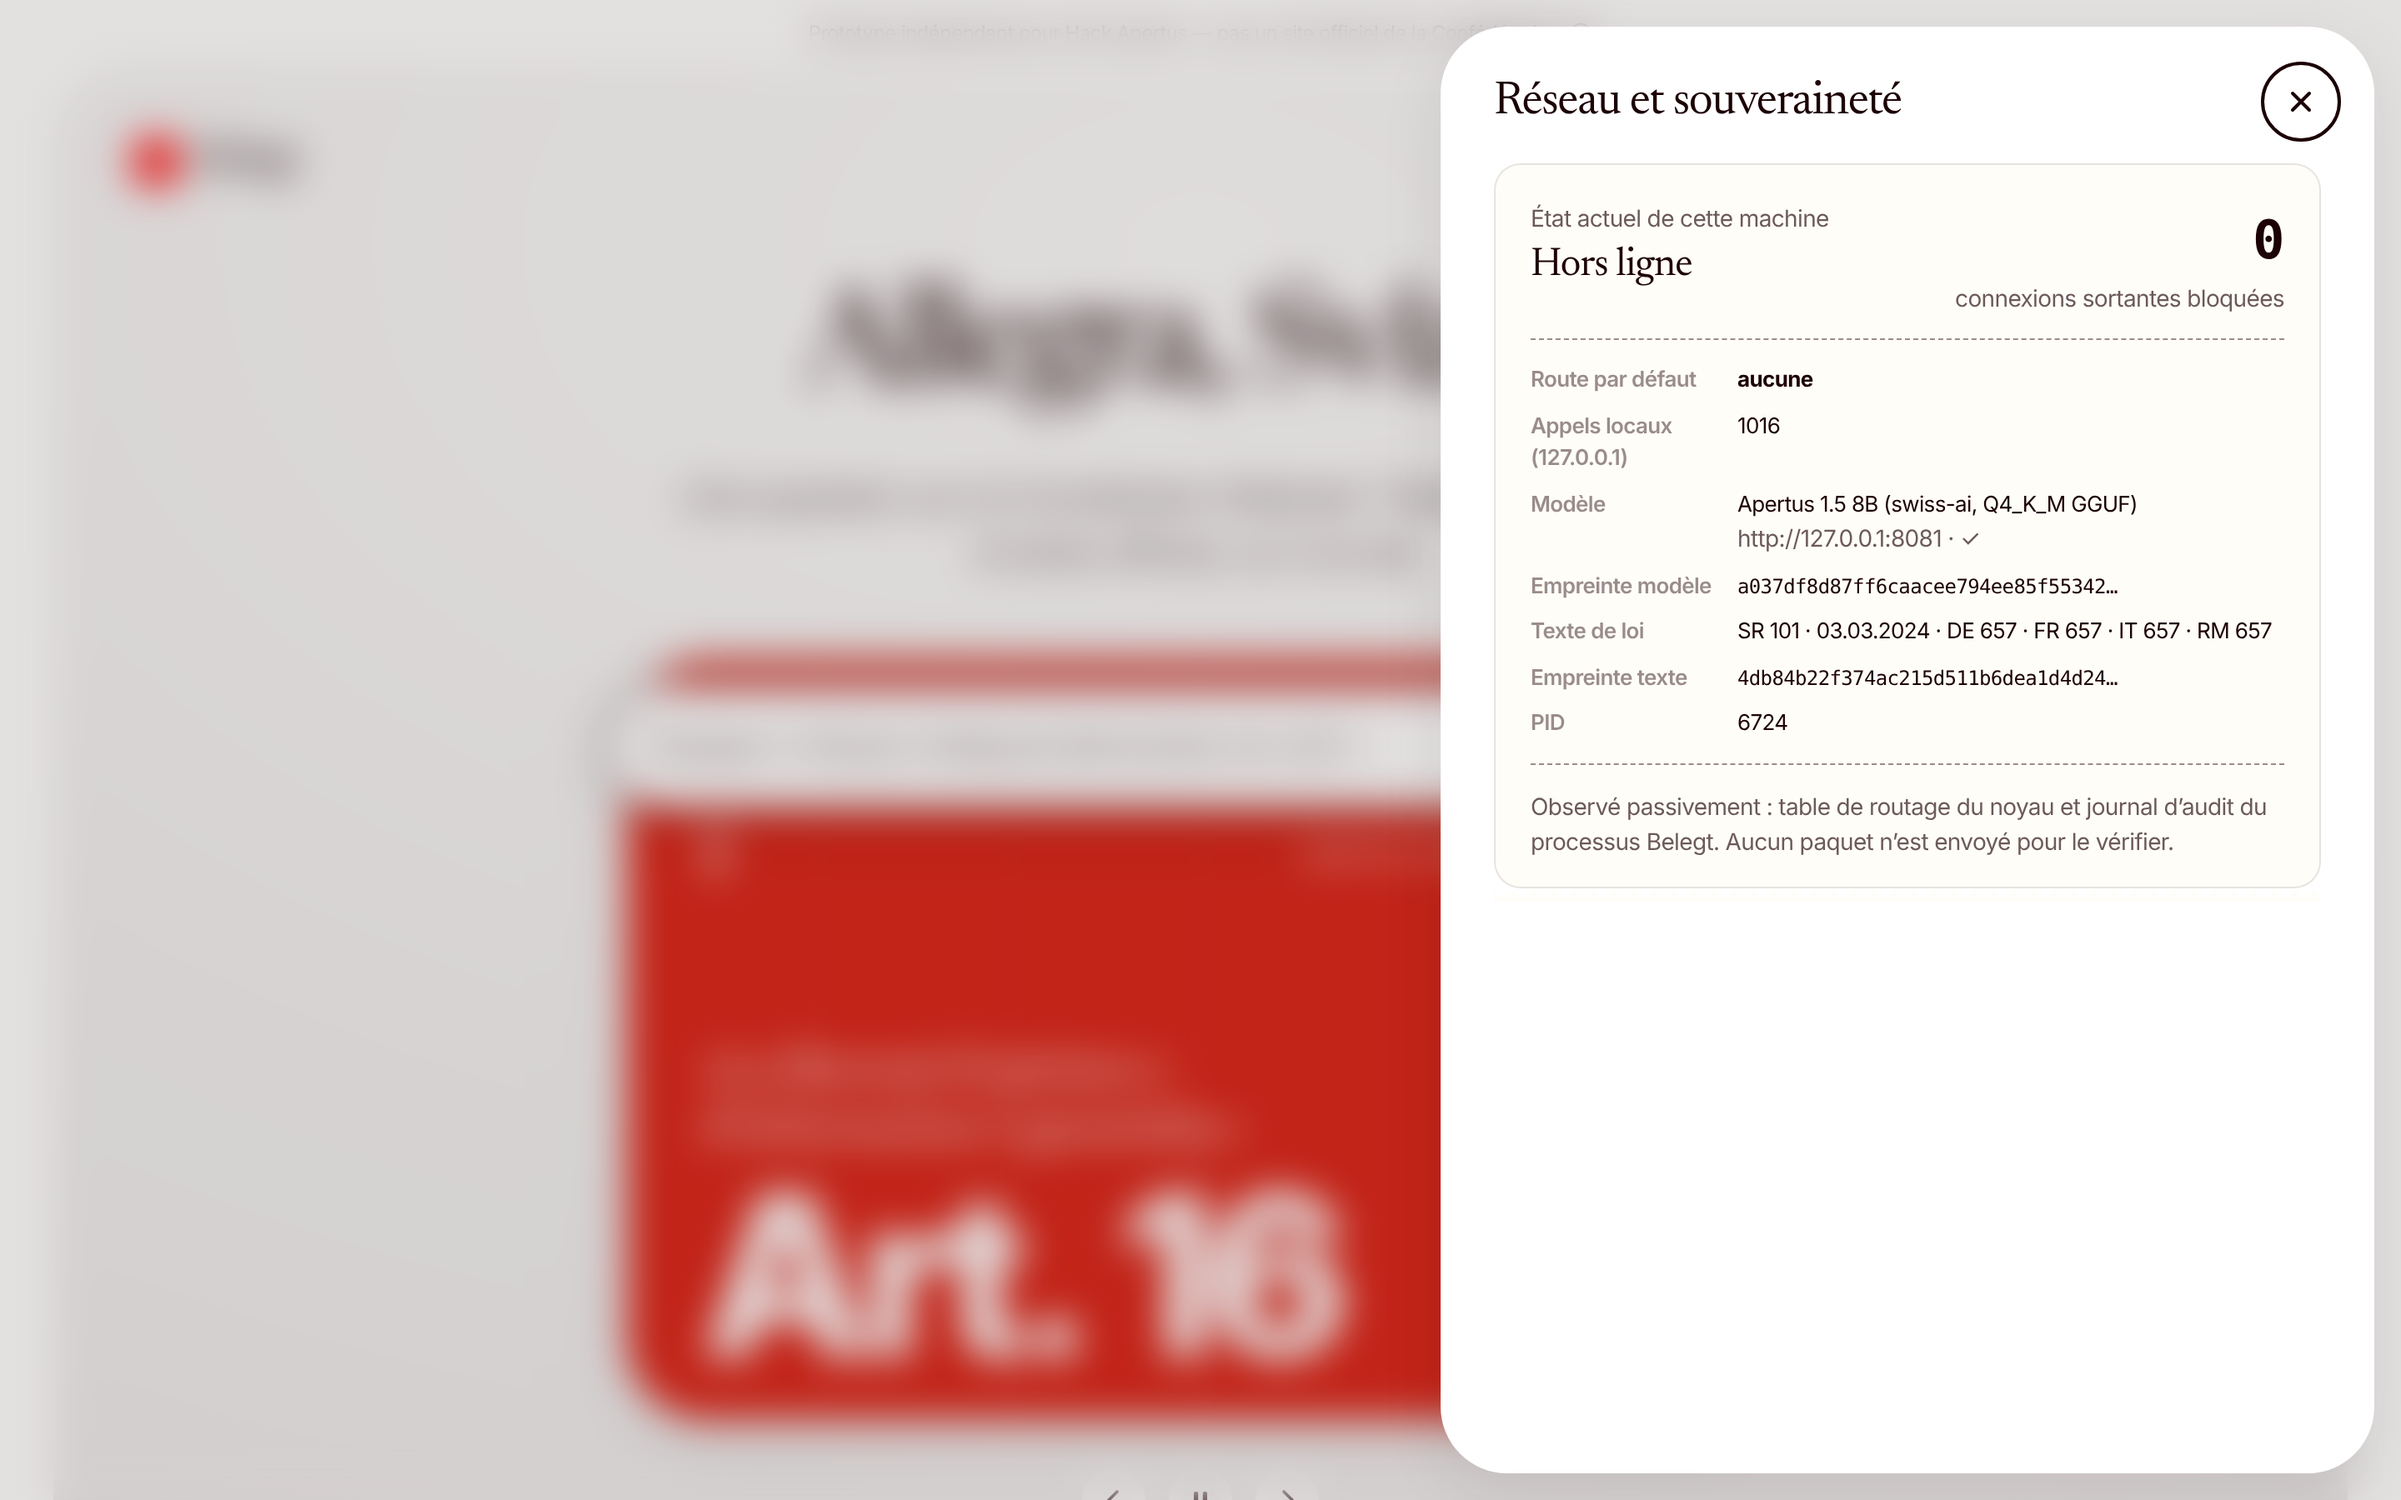
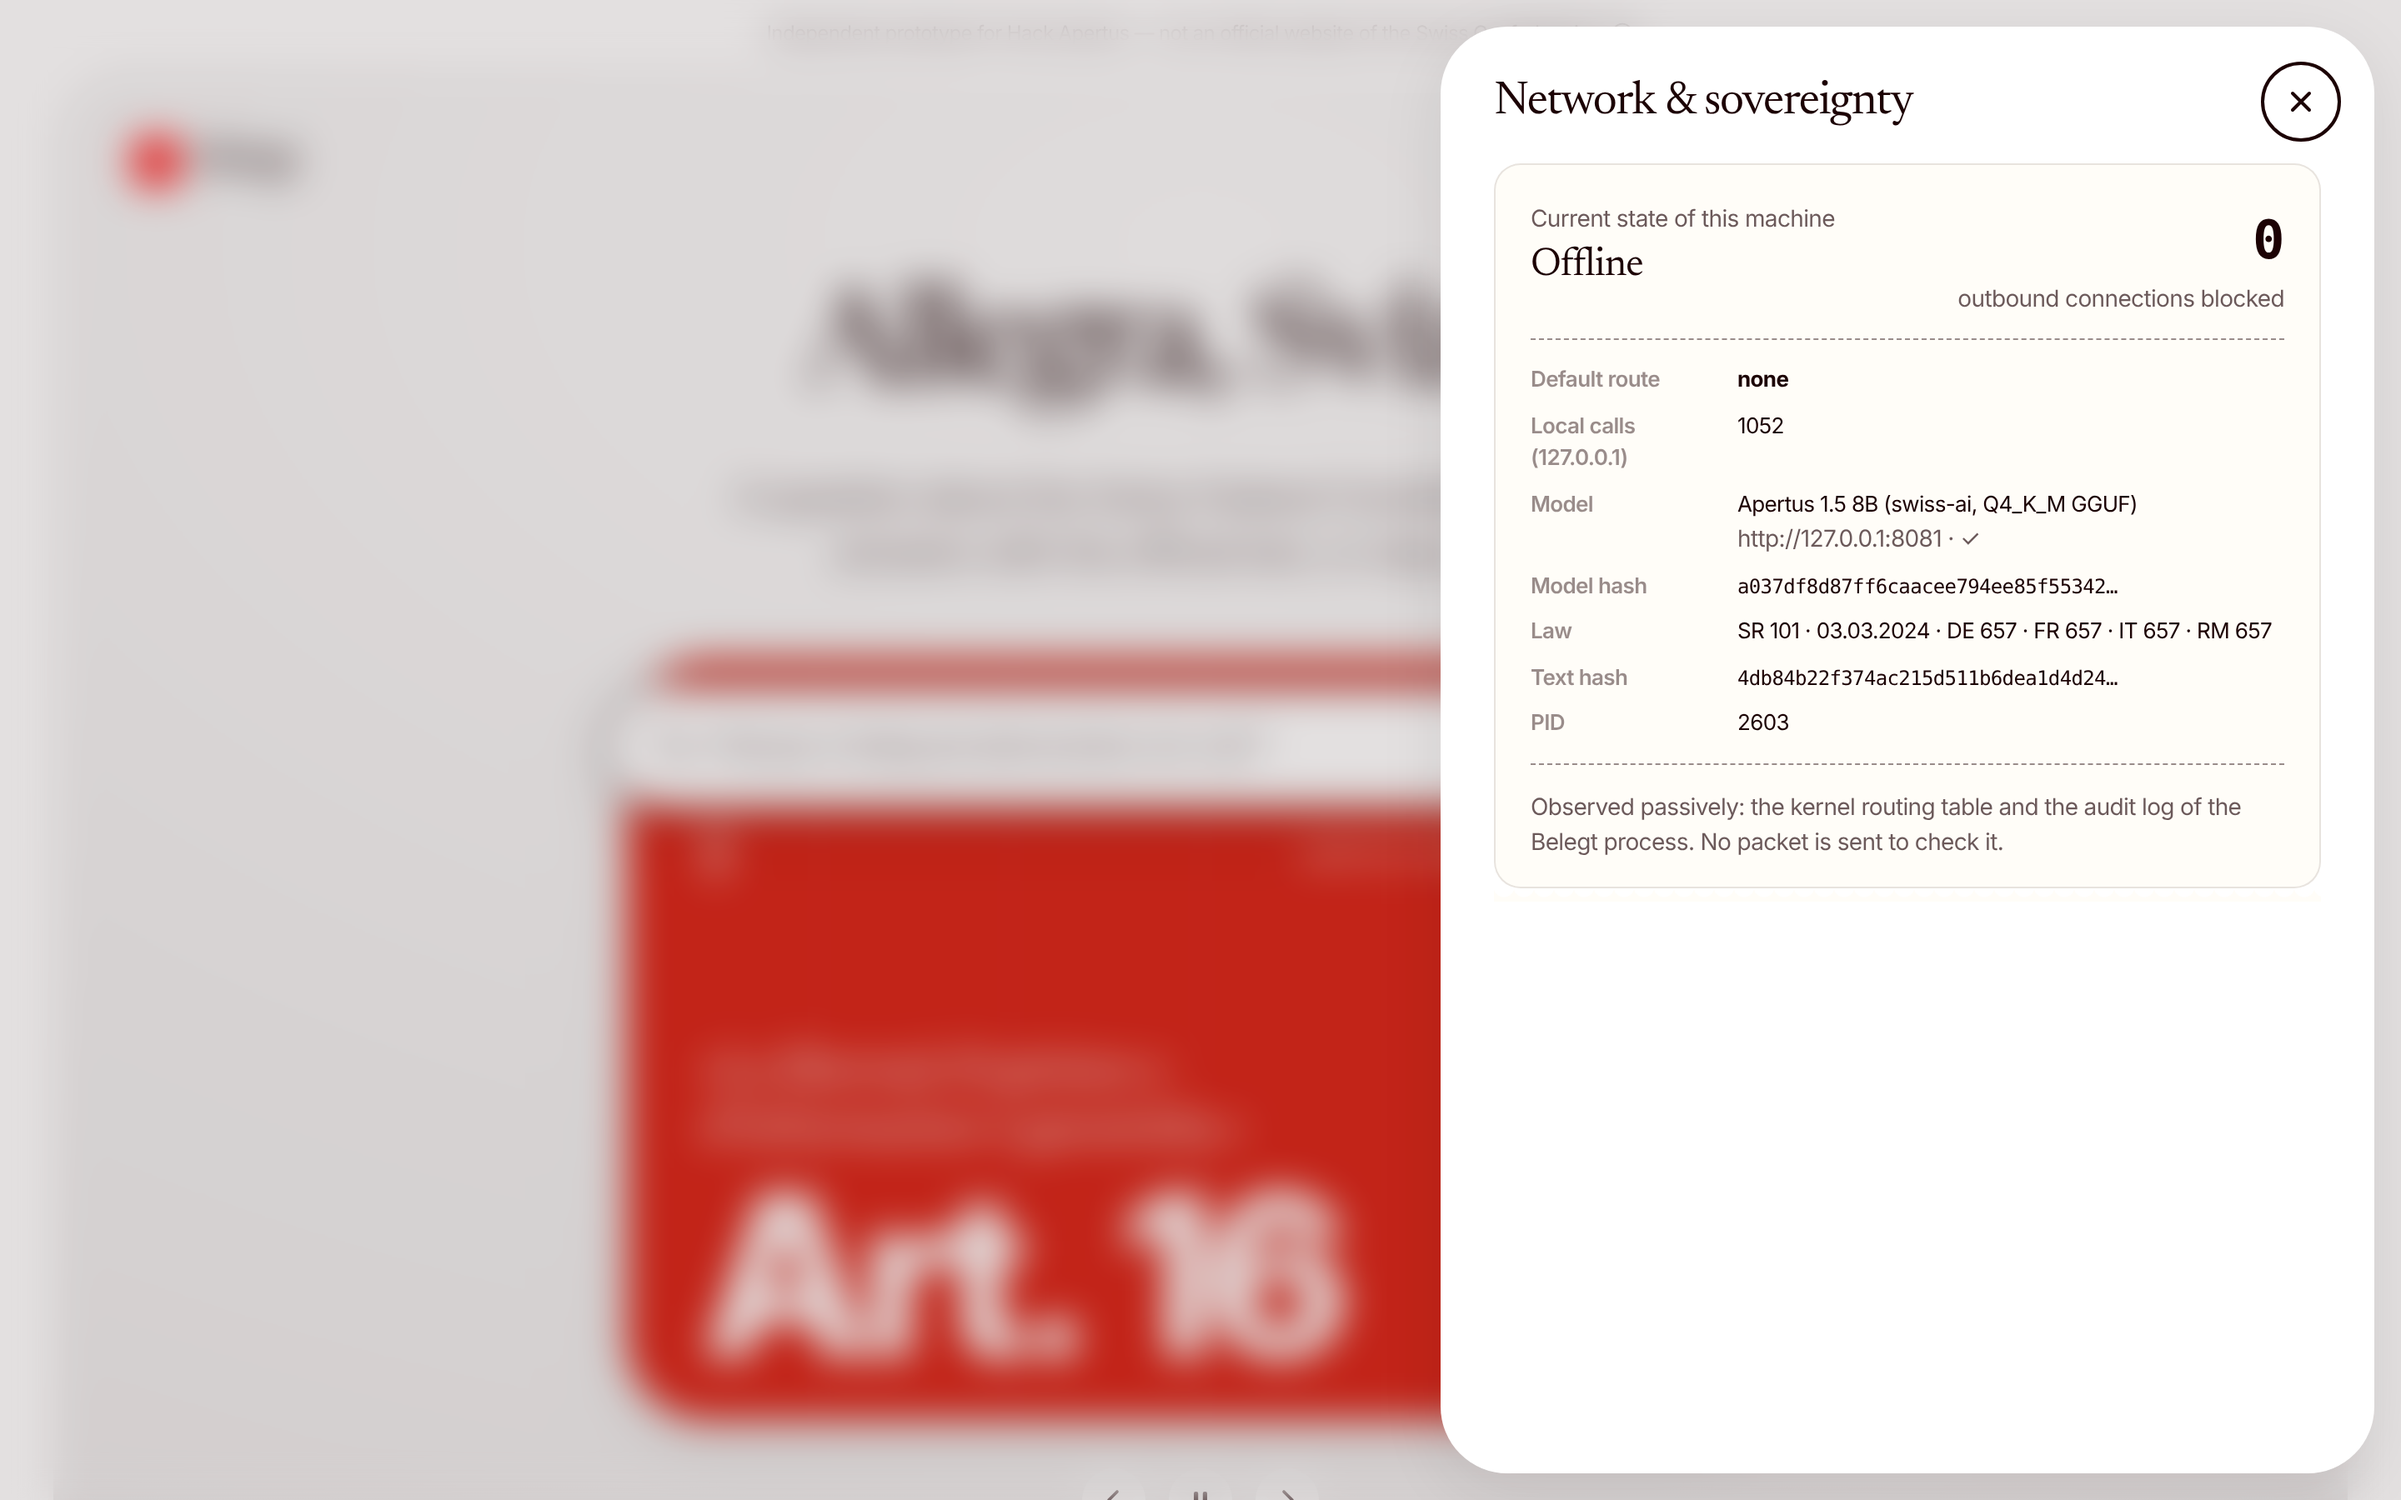
Document run-to-run variance (one Romansh demo take abstained); English screenshots script
Claude-Session: https://claude.ai/code/session_011Q8EMDzTR5TdDDKmbvQa4P

diff --git a/web/i18n.js b/web/i18n.js
@@ -253,7 +253,7 @@ en: {
     <h4>4 · Verify — code, no AI</h4><p>R1 the paragraph exists · R2 the quote appears word for word · R3 it is long enough · R4 no unproven article number in the answer · R5 if no evidence survives, Belegt abstains. Cross-language agreement is checked through Fedlex IDs, identical in every version.</p>
     <h4>5 · Receipt</h4><p>Every answer produces a receipt: model and SHA-256, law version and hash, evidence, checks, network state. It can be archived as an audit record.</p></div>`,
   privacy: `<div class="prose"><p><b>Nothing leaves the machine.</b> Apertus runs locally in llama.cpp, built without network support. A Python audit hook blocks and counts every outbound connection and DNS lookup; the counter is always visible and written into every receipt.</p><p>Offline state is observed passively (interfaces and routing table): no packet is sent to check it.</p><p>No question is stored server-side. The receipt lives in your browser.</p><p>Fonts and scripts are served by Belegt itself: no CDN, no tracker.</p></div>`,
-  limits: `<div class="prose"><ul><li>Belegt is not legal advice.</li><li>Verification guarantees quotes exist word for word, not that the rephrasing is right. Non-quoted sentences are dotted-underlined.</li><li>A refusal can be a false refusal when search misses the right article. The rate is measured and published.</li><li>Corpus: Federal Constitution (SR 101), as of 3 March 2024.</li><li>The model runs 4-bit on CPU: one answer takes about a minute.</li><li>Romansh test questions were written by the team, not native speakers; the Romansh UI may contain awkward phrasing.</li></ul></div>`,
+  limits: `<div class="prose"><ul><li>Belegt is not legal advice.</li><li>Verification guarantees quotes exist word for word, not that the rephrasing is right. Non-quoted sentences are dotted-underlined.</li><li>A refusal can be a false refusal when search misses the right article. The rate is measured and published.</li><li>Corpus: Federal Constitution (SR 101), as of 3 March 2024.</li><li>The model runs 4-bit on CPU: one answer takes about a minute.</li><li>Romansh test questions were written by the team, not native speakers; the Romansh UI may contain awkward phrasing.</li><li>Local CPU inference is not bit-for-bit reproducible across runs: in one of our demo recording takes the Romansh question was refused (a wrongful abstention, never an invention). Evaluation numbers come from a single run.</li></ul></div>`,
   about: `<div class="prose"><p><b>Belegt</b> (German for “substantiated, documented”) is a prototype for <b>Hack Apertus 2026</b>, Track 2B “Own Project”. Not affiliated with the Swiss Confederation or the Apertus authors.</p><p>Model: Apertus 1.5 8B (swiss-ai: EPFL · ETH Zurich · CSCS), GGUF Q4_K_M. Text: Fedlex official Akoma Ntoso XML in DE, FR, IT, RM.</p><p>Design: structure and component system modelled on America.gov, recoloured in Swiss red (Pantone 485 C). Open fonts Newsreader and Inter, served locally.</p><p>Code, test questions, results and receipts: Apache-2.0.</p></div>`,
 },
 };

diff --git a/scripts/build_deck.py b/scripts/build_deck.py
@@ -212,7 +212,7 @@ add("""
     <li><b>A behaviour worth training</b>: cite or abstain, as a target for future alignment work.</li>
     <li><b>A receipt format</b> other projects can adopt. Everything Apache-2.0.</li>
   </ul>
-  <div class="card ink" style="padding:44px"><h3>Limits, said first</h3><p style="font-size:23px;line-height:1.6;margin-top:14px">Not legal advice. The verifier proves quotes exist — not that the paraphrase is right, nor that the quoted article is the relevant one (those cases are counted as errors). Lexical search can miss the article → abstention. ≈ 50 s per answer on 4 CPU cores. Romansh test questions written by the team, not native speakers.</p></div>
+  <div class="card ink" style="padding:44px"><h3>Limits, said first</h3><p style="font-size:23px;line-height:1.6;margin-top:14px">Not legal advice. The verifier proves quotes exist — not that the paraphrase is right, nor that the quoted article is the relevant one (those cases are counted as errors). Lexical search can miss the article → abstention. ≈ 50 s per answer on 4 CPU cores. Romansh test questions written by the team, not native speakers. CPU inference is not bit-for-bit reproducible: one demo take refused the Romansh question (wrongful abstention, never an invention).</p></div>
 </div>""")
 
 # 14 — close

diff --git a/docs/devpost.template.md b/docs/devpost.template.md
@@ -129,6 +129,6 @@ Apertus is good at understanding a question and rephrasing it in four languages,
 - **Run it in 10 minutes:** see README “Quick start”. Python ≥ 3.10, no pip dependencies; llama.cpp + the GGUF; `scripts/start.sh`.
 - **Offline proof:** `sudo scripts/offline_demo.sh` starts llama.cpp and Belegt in a fresh network namespace (loopback only) and prints the routing table and a failed request to fedlex.admin.ch before serving.
 - **Reproduce the numbers:** `python eval/run_eval.py && python eval/score.py` (≈ 75 s per item on 4 CPU cores). Baseline trap answers were labelled by hand in `eval/manual_labels.json` with a one-line justification each.
-- **Honesty notes:** the verifier proves quotes exist, not that the paraphrase is right. Romansh questions were written by the team, not by native speakers. The design reproduces America.gov’s *structure*; no asset of that site is used, the Swiss coat of arms is not used, and the prototype is clearly labelled as unofficial.
+- **Honesty notes:** the verifier proves quotes exist, not that the paraphrase is right. CPU inference is not bit-for-bit reproducible: in one demo recording take the Romansh question was refused (wrongful abstention); the video uses a second take, the first take is kept. Romansh questions were written by the team, not by native speakers. The design reproduces America.gov’s *structure*; no asset of that site is used, the Swiss coat of arms is not used, and the prototype is clearly labelled as unofficial.
 - **File to upload:** `docs/submission/Belegt-submission.zip` (submission PDF + deck PDF and PNGs + 90 s video + subtitles + Devpost kit + essay + evaluation report), or the PDF alone: `docs/submission/Belegt-submission.pdf`.
 - **Essay:** `docs/essay-en.md` (a French version is kept in `docs/essai-fr.md`).

diff --git a/docs/essay-en.template.md b/docs/essay-en.template.md
@@ -58,7 +58,7 @@ These numbers come at a price we accept: Belegt sometimes abstains when an answe
 
 ## What Belegt is not, and its limits
 
-Belegt is not a legal adviser: it helps people find and read the official text, not decide an individual case. The verifier guarantees that quotes exist word for word; it does not guarantee that the paraphrase around them is right, nor that the quoted article is the most relevant one. That is why sentences that are not quotes are dotted-underlined, and why a “real quote from the wrong article” counts as an error in our measurements. The model runs at 4 bits on a CPU: an answer takes about 50 seconds (measured median). Finally, our Romansh test questions were written by the team, not by native speakers.
+Belegt is not a legal adviser: it helps people find and read the official text, not decide an individual case. The verifier guarantees that quotes exist word for word; it does not guarantee that the paraphrase around them is right, nor that the quoted article is the most relevant one. That is why sentences that are not quotes are dotted-underlined, and why a “real quote from the wrong article” counts as an error in our measurements. The model runs at 4 bits on a CPU: an answer takes about 50 seconds (measured median). Our Romansh test questions were written by the team, not by native speakers. And local CPU inference is not bit-for-bit reproducible: in one of our demo recording takes the Romansh question was refused — a wrongful abstention, never an invention.
 
 ## What Belegt gives back to Apertus
 

diff --git a/README.md b/README.md
@@ -111,6 +111,7 @@ Belegt is an independent prototype. It is **not** an official website of the Swi
 - Lexical retrieval sometimes misses the right article; Belegt then abstains (counted as over-refusal) or cites a neighbour (counted as wrong).
 - 4-bit 8B model on CPU: about a minute per answer.
 - Romansh test questions were written by the team, not by native speakers.
+- Local CPU inference is not bit-for-bit reproducible across runs: in one of our demo recording takes the Romansh question was refused (a wrongful abstention, never an invention). Evaluation numbers come from a single run.
 
 ## Credits
 
